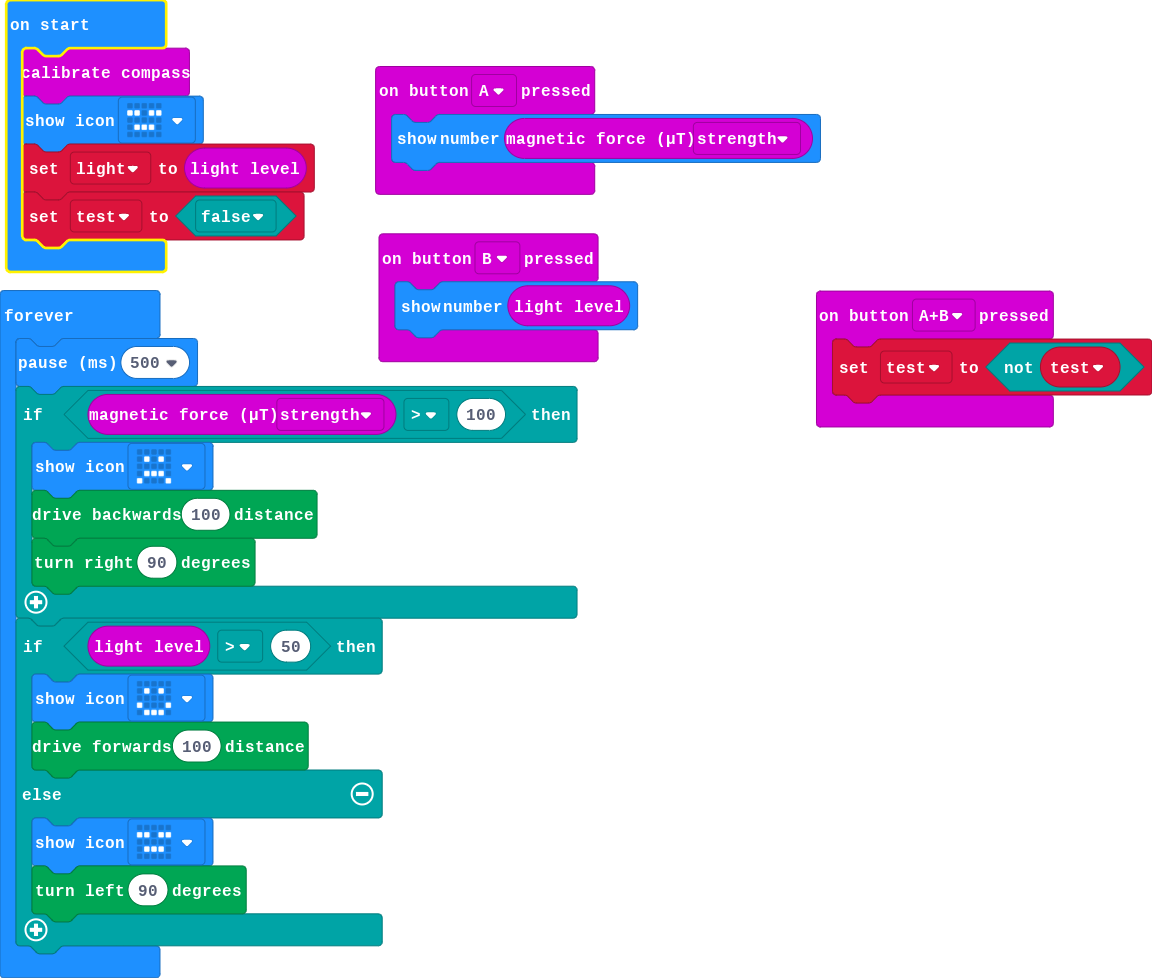
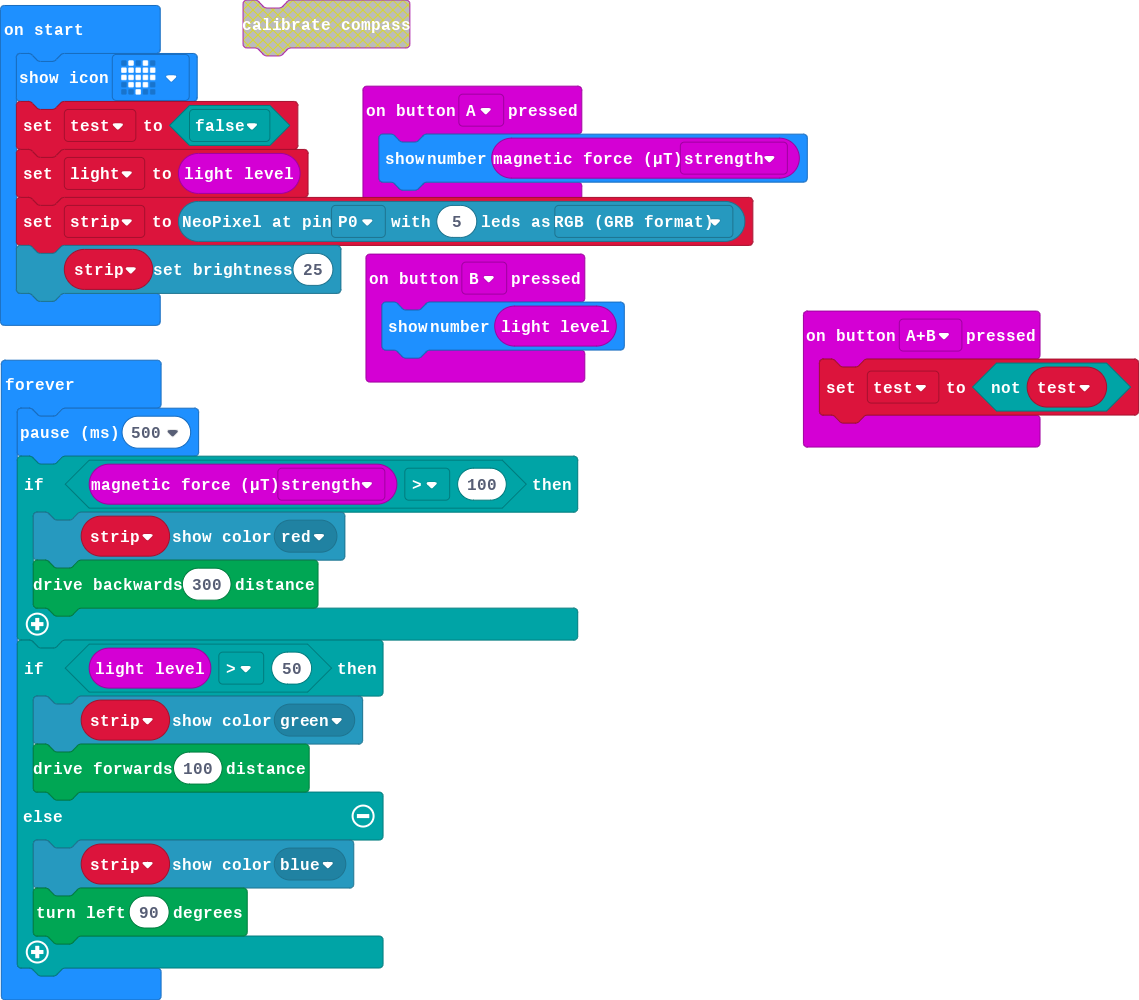
Update pxt.json, main.blocks, main.ts

Changed region(s): [[0.0, 0.0, 0.7375, 1.0], [0.7068, 0.2761, 1.0, 0.4601], [0.3073, 0.9202, 0.338, 0.9816]]

diff --git a/main.ts b/main.ts
@@ -8,22 +8,22 @@ input.onButtonPressed(Button.A, function () {
     basic.showNumber(input.magneticForce(Dimension.Strength))
 })
 let test = false
-input.calibrateCompass()
-basic.showIcon(IconNames.Asleep)
-let light = input.lightLevel()
+basic.showIcon(IconNames.Heart)
 test = false
+let light = input.lightLevel()
+let strip = neopixel.create(DigitalPin.P0, 5, NeoPixelMode.RGB)
+strip.setBrightness(25)
 basic.forever(function () {
     basic.pause(500)
     if (input.magneticForce(Dimension.Strength) > 100) {
-        basic.showIcon(IconNames.Sad)
-        kitronik_servo_lite.driveBackwards(100)
-        kitronik_servo_lite.turnRight(90)
+        strip.showColor(neopixel.colors(NeoPixelColors.Red))
+        kitronik_servo_lite.driveBackwards(300)
     }
     if (input.lightLevel() > 50) {
-        basic.showIcon(IconNames.Happy)
+        strip.showColor(neopixel.colors(NeoPixelColors.Green))
         kitronik_servo_lite.driveForwards(100)
     } else {
-        basic.showIcon(IconNames.Asleep)
+        strip.showColor(neopixel.colors(NeoPixelColors.Blue))
         kitronik_servo_lite.turnLeft(90)
     }
 })
